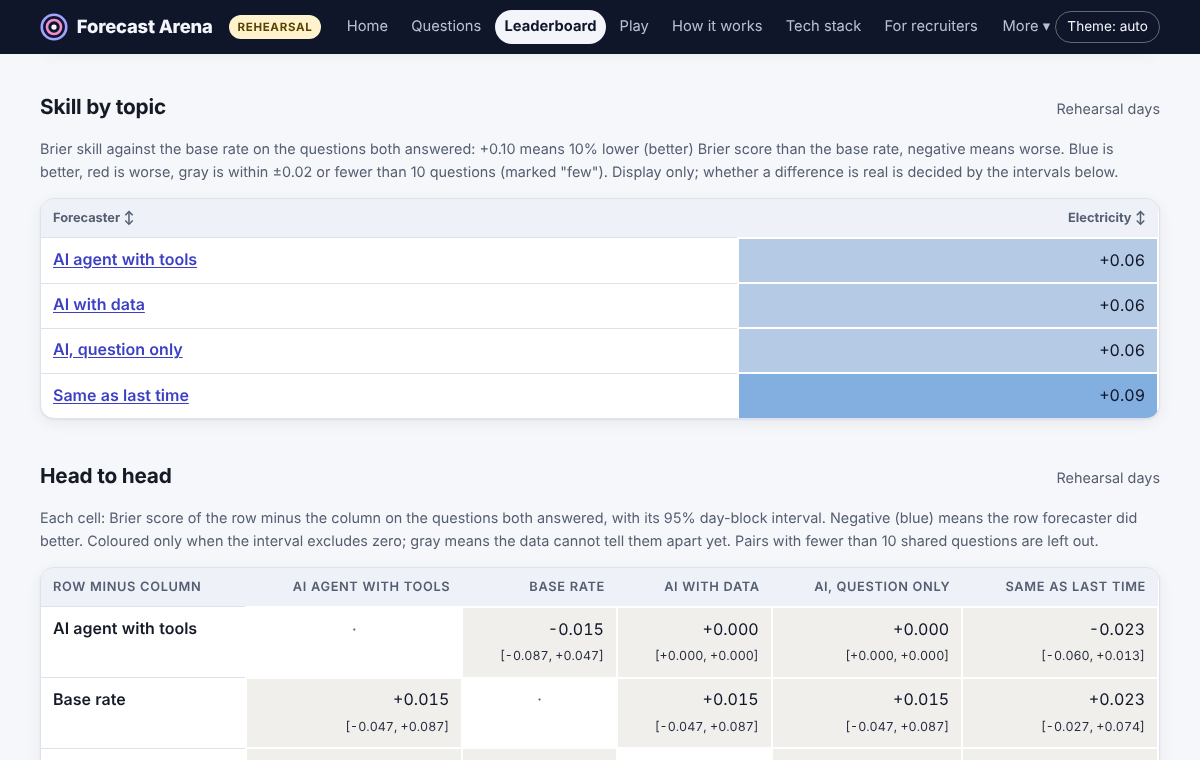
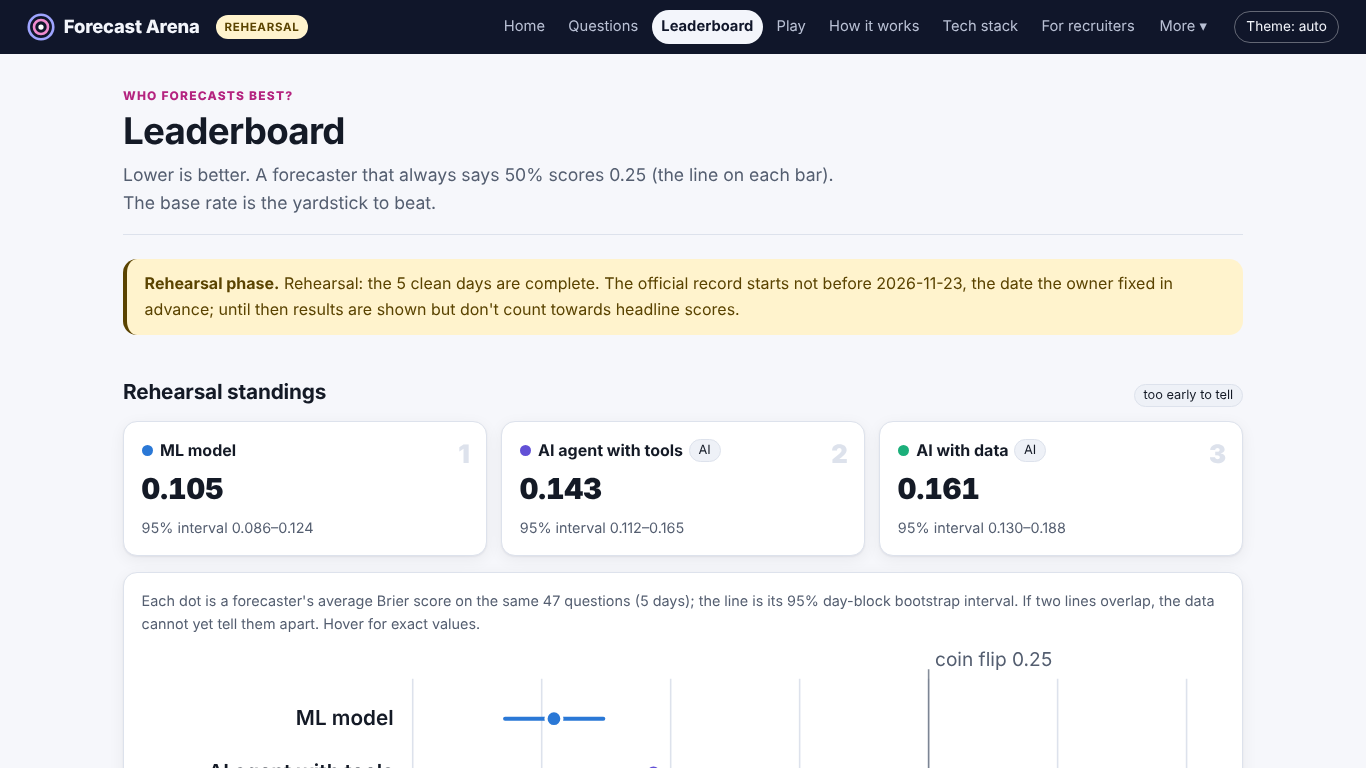
README for hiring managers: at-a-glance table, current facts, generated lab bullets, new skills rows, fresh screenshots
Claude-Session: https://claude.ai/code/session_01T7wLMVGg8K3ZF2NnAm8YZ5

diff --git a/scripts/readme_sections.py b/scripts/readme_sections.py
@@ -77,7 +77,12 @@ def highlights() -> str:
     d, ci, _ = _diff(power, "ml - base_rate")
     ld, lci, lok = _diff(lgbm, "ml_lgbm - ml")
     md, mci, mok = _diff(mlp, "ml_mlp - ml")
-    ts_rows = {fid: _brier(ts, fid) for fid in ("ts_chronos", "ts_sarimax", "ts_ets")}
+    ts_rows = {
+        fid: _brier(ts, fid) for fid in ("ts_chronos2", "ts_chronos", "ts_sarimax", "ts_ets")
+    }
+    glob = _card("power-global")
+    gd, gci, gok = _diff(glob, "ml_glgbm - ml")
+    lab = _lab_bullets()
     runs = [
         json.loads(f.read_text(encoding="utf-8"))
         for f in sorted((ROOT / "evals" / "results").glob("eval-*.json"))
@@ -91,9 +96,11 @@ def highlights() -> str:
         f"paired difference {d} {ci}. Calibrated gradient-boosted quantile regression.",
         f"- **Honest champion/challenger:** an Optuna-tuned LightGBM challenger improved Brier by "
         f"{ld} {lci} ({'supported' if lok else 'not supported'}); a PyTorch network "
-        f"({md} {mci}, {'supported' if mok else 'interval includes zero'}) and three "
-        f"time-series models (Chronos-Bolt {ts_rows['ts_chronos']}, SARIMAX "
-        f"{ts_rows['ts_sarimax']}, ETS {ts_rows['ts_ets']}) did not beat the champion, and say so.",
+        f"({md} {mci}, {'supported' if mok else 'interval includes zero'}), four "
+        f"time-series models (Chronos-2 {ts_rows['ts_chronos2']}, Chronos-Bolt "
+        f"{ts_rows['ts_chronos']}, SARIMAX {ts_rows['ts_sarimax']}, ETS {ts_rows['ts_ets']}) and a "
+        f"global LightGBM ({gd} {gci}, {'supported' if gok else 'interval includes zero'}) "
+        "did not beat the champion, and say so.",
         f"- **LLM engineering with evals:** a frozen golden set caught a silent output-cap "
         f"truncation; first-try valid JSON went from {pct(first)} to {pct(last)}. Tool-using "
         "agent, LangGraph agent, RAG over past questions, tracing, hard daily cost caps.",
@@ -104,8 +111,37 @@ def highlights() -> str:
         "branch, health checks with incident issues, Docker, Kubernetes (kind), dbt and "
         'Airflow validated in CI. Live record: "too early to tell" until the statistics '
         "can decide.",
+        *lab,
     ]
     return "\n".join(lines)
+
+
+def _lab_bullets() -> list[str]:
+    """Bullets about the experiments lab, every figure read from the committed result files."""
+    res = ROOT / "evals" / "results"
+    ft = json.loads((res / "lab-qlora-r1.json").read_text(encoding="utf-8"))
+    pair = {(p["a"], p["b"]): p for p in ft["paired"] if p["split"] == "test_all"}
+
+    def fmt(a: str, b: str) -> str:
+        p = pair[(a, b)]
+        return f"{p['diff']:+.4f} [{p['lo']:+.4f}, {p['hi']:+.4f}]"
+
+    conf = json.loads((res / "lab-conformal.json").read_text(encoding="utf-8"))["metrics"]["mean"]
+    docs = json.loads((res / "lab-docs-assistant.json").read_text(encoding="utf-8"))
+    dm = docs["metrics"]["docs_assistant"]
+    return [
+        "- **LLM fine-tuning, measured honestly:** a QLoRA fine-tune of Qwen2.5-1.5B on replayed "
+        f"questions beat its untuned self ({fmt('qlora_1_5b', 'base_1_5b')}) but not the base "
+        f"rate ({fmt('qlora_1_5b', 'base_rate')}) and not the ML model "
+        f"({fmt('qlora_1_5b', 'ml')}); pre-registered, time-split, negative result published "
+        "(paired Brier differences, 46 test days).",
+        f"- **Uncertainty and serving:** conformal price bands raise 80% coverage from "
+        f"{100 * conf['raw80']:.1f}% to {100 * conf['conformal80']:.1f}% over {conf['months']} "
+        "months; LightGBM models are exported to ONNX with parity tests and served behind a "
+        "REST endpoint; a cited, offline docs assistant answers "
+        f"{dm['hit_pct']:.0f}% of a hand-written question set and refuses "
+        f"{dm['correct_refusal_pct']:.0f}% of the out-of-scope ones.",
+    ]
 
 
 def headline() -> str:

diff --git a/src/arena/site/recruiters.py b/src/arena/site/recruiters.py
@@ -105,6 +105,32 @@ PROOFS: tuple[tuple[str, str, str, tuple[str, ...]], ...] = (
         ("src/arena/llm/local.py",),
     ),
     (
+        "LLM fine-tuning (QLoRA, PEFT, GGUF)",
+        "QLoRA fine-tune of a 1.5B model on replayed questions with a leak-free time split, "
+        "pre-registered hypotheses and a published negative result; merged and quantised for "
+        "CPU serving",
+        "lab.html",
+        (
+            "src/arena/lab/finetune/train.py",
+            "src/arena/lab/ft_eval.py",
+            "src/arena/lab/ft_runtime.py",
+        ),
+    ),
+    (
+        "Hybrid retrieval and guardrails",
+        "BM25 + dense search fused with RRF and a cross-encoder rerank, a prompt-injection guard "
+        "with a red-team suite, numeric grounding checks of model rationales",
+        "lab.html",
+        ("src/arena/agent/retrieval.py", "src/arena/llm/guards.py", "src/arena/lab/grounding.py"),
+    ),
+    (
+        "ONNX export and serving",
+        "LightGBM quantile models exported to ONNX, parity-tested, served with ONNX Runtime "
+        "behind a REST endpoint in the container",
+        "",
+        ("src/arena/forecasters/onnx_power.py", "src/arena/api/app.py"),
+    ),
+    (
         "LLM evals, tracing, OpenTelemetry",
         "Frozen golden set, prompt A/B, JSON validity and cost; one span per model call, "
         "exported as OTLP/JSON with the OpenTelemetry GenAI attribute names",

diff --git a/tests/unit/test_readme_sections.py b/tests/unit/test_readme_sections.py
@@ -68,3 +68,17 @@ def test_readme_has_role_guide_and_generated_lab_table() -> None:
     block = text[text.index("<!-- lab:start -->") : text.index("<!-- lab:end -->")]
     assert "docs/lab/retrieval-hybrid.md" in block and "docs/lab/qlora-r1.md" in block
     assert "rehearsal phase since the first batch (2026-11-13)" in text
+
+
+def test_readme_first_screen_has_an_at_a_glance_table_and_current_facts() -> None:
+    """The hiring manager's first screen: status table, honest result, fresh screenshot."""
+    text = (ROOT / "README.md").read_text(encoding="utf-8")
+    top = text[: text.index("## What this shows")]
+    for must in ("**Live since**", "**Status**", "**Who forecasts**", "**Honest so far**"):
+        assert must in top, must
+    assert top.index("**Live since**") < top.index("<!-- headline:start -->")
+    assert "switch on next" not in text and "(live now)" not in text  # stale statements removed
+    assert "`llm_local_ft` (experimental)" in text and "agent_graph" in text
+    # the highlights carry the generated fine-tune and conformal figures
+    hl = text[text.index("<!-- highlights:start -->") : text.index("<!-- highlights:end -->")]
+    assert "LLM fine-tuning, measured honestly" in hl and "conformal price bands" in hl

diff --git a/README.md b/README.md
@@ -12,6 +12,13 @@ forecasters publish a probability for yes/no questions about tomorrow (electrici
 weather, Wikipedia attention, exchange rates) **before the answer exists**, into an
 append-only, hash-chained ledger. When the data arrives, every forecast is scored.
 
+| | |
+|---|---|
+| **Live since** | 13 November 2026, four topics (electricity, weather, Wikipedia attention, exchange rates), about 30 questions a day |
+| **Status** | rehearsal phase: results are shown but do not count towards headline scores; the official record starts after five clean days in a row, not before 23 November 2026 |
+| **Who forecasts** | base rate, persistence, a gradient-boosted ML model, Claude (plain, with data, with tools, as a LangGraph agent), an open 1.5B model on CPU, and an experimental QLoRA-tuned model |
+| **Honest so far** | the ML model beats the baselines in backtest; whether an LLM agent beats it live is too early to tell; the fine-tuned model is expected to lose (and the evaluation says why) |
+
 <!-- headline:start -->
 **Result so far (backtest, not the live record):** over 365 days of German day-ahead electricity, the gradient-boosted model scores Brier 0.1930 against 0.2205 for "same as last time" and 0.2466 for the base rate (lower is better; always saying 50% scores 0.25). Paired difference to persistence: -0.0275 [-0.0378, -0.0162], supported. Caveat: the 2190 questions come from only 365 independent days (about 6 correlated questions per day), so intervals resample whole days.
 
@@ -25,16 +32,18 @@ append-only, hash-chained ledger. When the data arrives, every forecast is score
 
 [![The home page](docs/img/home.png)](https://jashd12.github.io/forecast-arena/)
 
-*Screenshot of the site built from the public ledger on 2026-11-19. Research project, not advice.*
+*Screenshot of the site built from the public ledger on 2026-11-22. Research project, not advice.*
 
 ## What this shows
 
 <!-- highlights:start -->
 - **A classical model that clearly beats the base rate** (backtest, 365 days of German electricity): Brier 0.1930 vs 0.2466, paired difference -0.0536 [-0.0655, -0.0414]. Calibrated gradient-boosted quantile regression.
-- **Honest champion/challenger:** an Optuna-tuned LightGBM challenger improved Brier by -0.0045 [-0.0069, -0.0021] (supported); a PyTorch network (-0.0003 [-0.0087, +0.0081], interval includes zero) and three time-series models (Chronos-Bolt 0.2142, SARIMAX 0.2279, ETS 0.2441) did not beat the champion, and say so.
+- **Honest champion/challenger:** an Optuna-tuned LightGBM challenger improved Brier by -0.0045 [-0.0069, -0.0021] (supported); a PyTorch network (-0.0003 [-0.0087, +0.0081], interval includes zero), four time-series models (Chronos-2 0.2073, Chronos-Bolt 0.2142, SARIMAX 0.2279, ETS 0.2441) and a global LightGBM (+0.0149 [+0.0097, +0.0198], supported) did not beat the champion, and say so.
 - **LLM engineering with evals:** a frozen golden set caught a silent output-cap truncation; first-try valid JSON went from 17% to 100%. Tool-using agent, LangGraph agent, RAG over past questions, tracing, hard daily cost caps.
 - **Forecasts locked before the truth:** an append-only, hash-chained ledger on a git branch; `arena ledger verify --git` lets anyone check that no forecast was written after its question locked. Failures are recorded as skips, never filled in.
 - **Runs itself:** scheduled GitHub Actions jobs, CI-gated promotion to a stable branch, health checks with incident issues, Docker, Kubernetes (kind), dbt and Airflow validated in CI. Live record: "too early to tell" until the statistics can decide.
+- **LLM fine-tuning, measured honestly:** a QLoRA fine-tune of Qwen2.5-1.5B on replayed questions beat its untuned self (-0.0109 [-0.0154, -0.0062]) but not the base rate (+0.0196 [+0.0069, +0.0332]) and not the ML model (+0.0714 [+0.0354, +0.1061]); pre-registered, time-split, negative result published (paired Brier differences, 46 test days).
+- **Uncertainty and serving:** conformal price bands raise 80% coverage from 71.0% to 79.4% over 7 months; LightGBM models are exported to ONNX with parity tests and served behind a REST endpoint; a cited, offline docs assistant answers 60% of a hand-written question set and refuses 83% of the out-of-scope ones.
 <!-- highlights:end -->
 
 ## Where to look, by role
@@ -47,7 +56,7 @@ append-only, hash-chained ledger. When the data arrives, every forecast is score
 
 ## Experiments lab
 
-Each technique is tried against the project's baselines on questions it never saw, pre-registered, with negative results published.
+Each technique is tried against the project's baselines on questions it never saw, pre-registered, with negative results published. The fine-tune is the clearest example: it learned something (it beats its untuned self) and still loses to a simple baseline and to the gradient-boosted model; the card says so and shows the intervals.
 
 <!-- lab:start -->
 | Technique | Status | Card |
@@ -72,7 +81,7 @@ Live experimental forecasters: the QLoRA-tuned model (running since the first mo
 <summary><strong>Tech stack</strong></summary>
 
 <!-- stack:start -->
-**Stack:** Python, typing, testing · SQL, DuckDB, Parquet, Polars · dbt · scikit-learn, calibration · LightGBM, Optuna, SHAP · PyTorch · Time-series models · MLOps: MLflow, Evidently, champion/challenger · Statistics · LLM APIs, prompts, structured output · Agents and tool use · RAG, embeddings · LangGraph · Open-weight models (llama.cpp) · LLM evals, tracing, OpenTelemetry · MCP · REST and JSON APIs · Docker, Kubernetes, Airflow · CI/CD on GitHub Actions · Data integrity · Dashboards and frontend
+**Stack:** Python, typing, testing · SQL, DuckDB, Parquet, Polars · dbt · scikit-learn, calibration · LightGBM, Optuna, SHAP · PyTorch · Time-series models · MLOps: MLflow, Evidently, champion/challenger · Statistics · LLM APIs, prompts, structured output · Agents and tool use · RAG, embeddings · LangGraph · Open-weight models (llama.cpp) · LLM fine-tuning (QLoRA, PEFT, GGUF) · Hybrid retrieval and guardrails · ONNX export and serving · LLM evals, tracing, OpenTelemetry · MCP · REST and JSON APIs · Docker, Kubernetes, Airflow · CI/CD on GitHub Actions · Data integrity · Dashboards and frontend
 <!-- stack:end -->
 
 Airflow, kind and dbt are validated in CI; production runs on GitHub Actions.
@@ -137,6 +146,9 @@ All numbers below are **backtests**: past days replayed through the production c
 | RAG, embeddings | Local ONNX embeddings, similarity search over past questions with a no-leakage rule | `src/arena/agent/retrieval.py` |
 | LangGraph | The agent as a state machine (plan, retrieve, tools, critique) behind the same caps | `src/arena/agent/graph.py` |
 | Open-weight models (llama.cpp) | A 1.5B model on the CI runner's CPU, same contract as the API model, no API cost | `src/arena/llm/local.py` |
+| LLM fine-tuning (QLoRA, PEFT, GGUF) | QLoRA fine-tune of a 1.5B model on replayed questions with a leak-free time split, pre-registered hypotheses and a published negative result; merged and quantised for CPU serving | `src/arena/lab/finetune/train.py`<br>`src/arena/lab/ft_eval.py`<br>`src/arena/lab/ft_runtime.py` |
+| Hybrid retrieval and guardrails | BM25 + dense search fused with RRF and a cross-encoder rerank, a prompt-injection guard with a red-team suite, numeric grounding checks of model rationales | `src/arena/agent/retrieval.py`<br>`src/arena/llm/guards.py`<br>`src/arena/lab/grounding.py` |
+| ONNX export and serving | LightGBM quantile models exported to ONNX, parity-tested, served with ONNX Runtime behind a REST endpoint in the container | `src/arena/forecasters/onnx_power.py`<br>`src/arena/api/app.py` |
 | LLM evals, tracing, OpenTelemetry | Frozen golden set, prompt A/B, JSON validity and cost; one span per model call, exported as OTLP/JSON with the OpenTelemetry GenAI attribute names | `src/arena/evals`<br>`src/arena/llm/tracing.py`<br>`src/arena/llm/otlp.py` |
 | MCP | Read-only MCP server so AI assistants can query the benchmark | `src/arena/mcp_server.py` |
 | REST and JSON APIs | FastAPI service and a static JSON API with schemas generated from pydantic models | `src/arena/api/app.py`<br>`src/arena/site/api.py` |
@@ -222,14 +234,14 @@ flowchart LR
 Times are the intended ones; GitHub can start scheduled jobs late, so each job is scheduled
 many times and a gate lets the first run with work do it (`src/arena/ops/schedule.py`).
 
-1. **Evening (18:00 UTC, the day before).** Yes/no questions are generated from live
-   public data: German day-ahead electricity prices (live now); the weather at four DWD
-   stations, attention to Wikipedia articles and ECB exchange rates are built and
-   backtested and switch on next. Questions are public from then on, so people can
-   answer too.
-2. **Morning (05:30 UTC).** Every forecaster publishes a probability (and any
-   topic the evening missed gets its questions now). The batch is written to the ledger
-   and sealed **before the 09:30 UTC lock**.
+1. **Evening (from 16:00 UTC, the day before).** Yes/no questions are generated from live
+   public data: German day-ahead electricity prices, the weather at four DWD stations,
+   attention to Wikipedia articles and ECB exchange rates. Questions are public from then
+   on, so people can answer too.
+2. **Morning (before the 09:30 UTC lock).** Every forecaster publishes a probability (and
+   any topic the evening missed gets its questions now). The batch is written to the
+   ledger and sealed **before the lock**; a forecast written after it would be invalid
+   and is recorded as a miss instead.
 3. **Resolve (every 3 hours).** When the answers are published, questions are
    resolved with evidence, finished days are sealed into a hash chain, and the site is
    rebuilt.
@@ -242,8 +254,13 @@ many times and a gate lets the first run with work do it (`src/arena/ops/schedul
 | `base_rate`, `persistence` | past outcomes of the same question template |
 | `ml` | the as-of data; one model per domain (`docs/models/`) |
 | `llm_plain` / `llm_context` | the question (and, for context, the as-of data) |
-| `agent` | as `llm_context`, plus read-only tools, at most 4 calls |
+| `agent`, `agent_graph` | as `llm_context`, plus read-only tools (plain loop and LangGraph), call limits |
+| `llm_local` | the open Qwen2.5-1.5B model on the CI runner's CPU, same prompt as `llm_context` |
+| `llm_local_ft` (experimental) | the QLoRA-tuned model, one forward pass, calibrated probability; in no headline board |
 | `ensemble`, `human_panel` | later phases |
+
+The LLM forecasters answer a seeded daily sample, so the board compares forecasters only on
+the questions they all answered.
 
 Integrity rules: forecasts are written before the answer exists and never backdated; the
 ledger is append-only and hash-chained; forecasters only see data available at forecast
@@ -322,8 +339,8 @@ score on electricity questions?"
 ## Auf Deutsch
 
 Forecast Arena ist ein öffentlicher Forschungs-Benchmark. Jeden Abend entstehen aus
-öffentlichen Daten Ja/Nein-Fragen über die nächsten Tage (zunächst deutsche
-Day-Ahead-Strompreise). Am Morgen darauf geben Basisrate, ein Gradient-Boosting-Modell,
+öffentlichen Daten Ja/Nein-Fragen über die nächsten Tage (deutsche
+Day-Ahead-Strompreise, Wetter, Wikipedia-Aufmerksamkeit, Wechselkurse). Am Morgen darauf geben Basisrate, ein Gradient-Boosting-Modell,
 Sprachmodelle und zwei KI-Agenten ihre Wahrscheinlichkeit ab, **bevor** die Antwort feststeht; alles wird in
 ein öffentliches, nur erweiterbares und per Hash verkettetes Protokoll geschrieben und am
 nächsten Tag mit dem Brier-Score bewertet. Forschungsfrage: Wann schlägt ein KI-Agent ein

diff --git a/docs/project/PROGRESS.md b/docs/project/PROGRESS.md
@@ -65,6 +65,7 @@ Nothing. See the session summary above and `python scripts/status.py`.
   output, not acted on (S11).
 
 ## Done log
+- 2026-11-22 README for hiring managers: at-a-glance table, generated fine-tune/conformal/docs-assistant bullets, new skills rows, stale text fixed, screenshots refreshed from a fresh ledger.
 - 2026-11-22 T271: `llm_local_ft` switched on by default in morning.yml (owner decision); T246b will add a GGUF-calibrated map as a new version.
 - 2026-11-22 T246b prepared: `lab-eval.yml` (4 shards), `arena lab ft-score` and `ft-calibrate`; to dispatch from main after the merge.
 - 2026-11-22 T245/T246: QLoRA run pinned (release lab-qlora-r1), evaluated on both test sets: tuned beats untuned, worse than the base rate, far from ml; GGUF parity missed the 0.005 limit on 31 rows (Brier +0.0123). H32 asks for a decision.
